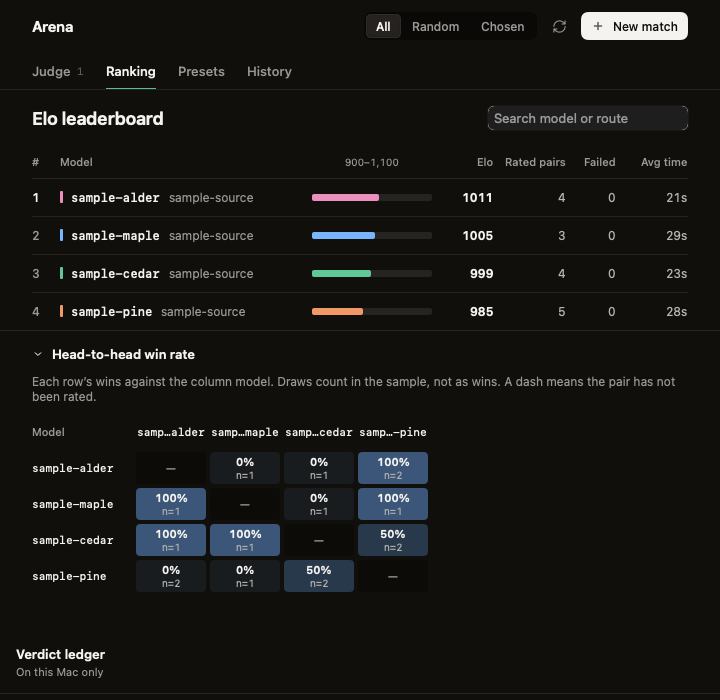
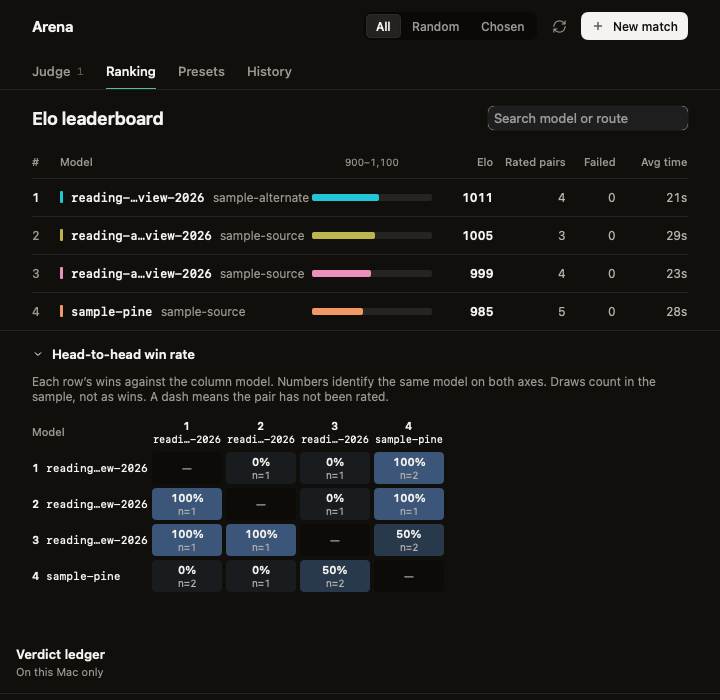
Give long Arena model labels distinct comparison keys

diff --git a/native/swift/Sources/UniApi/NativeArenaHeadToHead.swift b/native/swift/Sources/UniApi/NativeArenaHeadToHead.swift
@@ -28,7 +28,7 @@ struct NativeArenaHeadToHead: View {
                 }.contentShape(Rectangle())
             }.buttonStyle(.plain).pointingHand().accessibilityValue(expanded ? "Expanded" : "Collapsed")
             if expanded {
-                Text("Each row’s wins against the column model. Draws count in the sample, not as wins. A dash means the pair has not been rated.")
+                Text("Each row’s wins against the column model. Numbers identify the same model on both axes. Draws count in the sample, not as wins. A dash means the pair has not been rated.")
                     .font(Theme.ui(Theme.textXs)).foregroundStyle(Theme.muted).fixedSize(horizontal: false, vertical: true)
                 if pages > 1 {
                     HStack {
@@ -52,18 +52,32 @@ struct NativeArenaHeadToHead: View {
     }
 
     private var grid: some View {
-        let matrix = ArenaPairMatrix(comparisons), columns = page(columnPage)
+        let matrix = ArenaPairMatrix(comparisons), rowModels = page(rowPage), columns = page(columnPage)
         return HStack(alignment: .top, spacing: 4) {
             VStack(alignment: .leading, spacing: 4) {
                 Text("Model").font(Theme.ui(11, weight: .medium)).foregroundStyle(Theme.muted).frame(height: 32)
-                ForEach(page(rowPage), id: \.self["key"]) { row in axis(row, width: 100, alignment: .leading) }
+                ForEach(rowModels.indices, id: \.self) { index in
+                    let row = rows[index]
+                    HStack(spacing: 6) {
+                        axisNumber(index)
+                        Text(row["model"].string).font(Theme.mono(11)).lineLimit(1).truncationMode(.middle)
+                    }.frame(width: 116, height: 32, alignment: .leading)
+                        .help(label(row)).accessibilityElement(children: .ignore).accessibilityLabel("\(index + 1). \(label(row))")
+                }
             }
             ScrollView(.horizontal) {
                 VStack(alignment: .leading, spacing: 4) {
                     HStack(spacing: 4) {
-                        ForEach(columns, id: \.self["key"]) { column in axis(column, width: 70, alignment: .center) }
+                        ForEach(columns.indices, id: \.self) { index in
+                            let column = rows[index]
+                            VStack(spacing: 0) {
+                                axisNumber(index)
+                                Text(column["model"].string).font(Theme.mono(10)).lineLimit(1).truncationMode(.middle)
+                            }.frame(width: 70, height: 32)
+                                .help(label(column)).accessibilityElement(children: .ignore).accessibilityLabel("\(index + 1). \(label(column))")
+                        }
                     }
-                    ForEach(page(rowPage), id: \.self["key"]) { row in
+                    ForEach(rowModels, id: \.self["key"]) { row in
                         HStack(spacing: 4) {
                             ForEach(columns, id: \.self["key"]) { column in
                                 cell(matrix[row["key"].string, column["key"].string], row: row, column: column)
@@ -77,9 +91,9 @@ struct NativeArenaHeadToHead: View {
 
     private func label(_ row: JSONValue) -> String { row["model"].string + " · " + row["route"].string }
 
-    private func axis(_ row: JSONValue, width: CGFloat, alignment: Alignment) -> some View {
-        Text(row["model"].string).font(Theme.mono(11)).lineLimit(1).truncationMode(.middle)
-            .frame(width: width, height: 32, alignment: alignment).help(label(row)).accessibilityLabel(label(row))
+    private func axisNumber(_ index: Int) -> some View {
+        Text("\(index + 1)").font(Theme.num(11, weight: .semibold)).foregroundStyle(Theme.ink)
+            .fixedSize(horizontal: true, vertical: false)
     }
 
     private func cell(_ result: ArenaPairResult?, row: JSONValue, column: JSONValue) -> some View {

diff --git a/tools/PublicScreenshotHarness.swift b/tools/PublicScreenshotHarness.swift
@@ -35,7 +35,9 @@ private enum PublicArenaCapture {
         try await NativeArenaService.shared(runtime: runtime).start()
         guard page != "arena-empty" else { return }
         let now = Date().timeIntervalSince1970 * 1000
-        let models = ["sample-cedar", "sample-maple", "sample-alder", "sample-pine"]
+        let cedar = "reading-assistant-enterprise-cedar-regional-preview-2026"
+        let models = [(cedar, "sample-source"), ("reading-assistant-enterprise-maple-regional-preview-2026", "sample-source"),
+                      (cedar, "sample-alternate"), ("sample-pine", "sample-source")]
         let answers = [
             "Make Add a book the first focused action. It opens a search field and a short list of matches. Enter adds the highlighted book; Escape returns to the library without losing the query.\n\nWhen a book is in progress, put Resume reading first. Show a short excerpt and the last saved page beside it.",
             "Use one command palette for Add, Find, and Resume. A keyboard shortcut opens it from anywhere, and the default action changes when the library is empty.\n\nKeep a recent books section and show the last completed chapter inline.",
@@ -59,16 +61,16 @@ private enum PublicArenaCapture {
             ])
             var contestants: [JSONValue] = []
             for slot in 0..<count {
-                let name = models[(slot + (count == 4 ? 0 : index)) % models.count]
+                let (name, route) = models[(slot + (count == 4 ? 0 : index)) % models.count]
                 let duration = Double([18_500, 29_000, 24_000, 38_000][slot])
                 let workdir = runtime.paths.data.appendingPathComponent("arena/matches/\(id)/slot-\(slot)").path
                 try runtime.db.execute("INSERT INTO arena_slots(id,match_id,idx,route,model,status,workdir,final_text,duration_ms,turns,output_tokens,cost_usd,started_at) VALUES(?,?,?,?,?,?,?,?,?,?,?,?,?)", [
-                    .string("\(id)-slot-\(slot)"), .string(id), .number(Double(slot)), "sample-source", .string(name), status,
+                    .string("\(id)-slot-\(slot)"), .string(id), .number(Double(slot)), .string(route), .string(name), status,
                     .string(workdir), status == "done" ? .string(answers[slot]) : "",
                     status == "done" ? .number(duration) : .null, .number(Double(slot + 3)),
                     .number(Double(640 + slot * 146)), slot == 1 ? 0 : .number(0.014 + Double(slot) * 0.009), .number(created + 1000)
                 ])
-                contestants.append(["route": "sample-source", "model": .string(name), "status": "done",
+                contestants.append(["route": .string(route), "model": .string(name), "status": "done",
                                      "rank": .number(Double((order.firstIndex(of: slot) ?? 0) + 1)), "duration_ms": .number(duration), "turns": .number(Double(slot + 3))])
             }
             if ranked {

diff --git a/native/swift/Sources/UniApi/NativeArenaMatch.swift b/native/swift/Sources/UniApi/NativeArenaMatch.swift
@@ -108,15 +108,21 @@ struct NativeArenaMatch: View {
                 }
             }
         } label: {
+            let slot = slots[pair[side]]
             HStack(spacing: 8) {
-                Text(name(slots[pair[side]])).lineLimit(1).truncationMode(.middle)
+                if slot["revealed"].bool {
+                    Text(slot["label"].string).fixedSize()
+                    Text("\(slot["model"].string) · \(slot["route"].string)").lineLimit(1).truncationMode(.middle)
+                } else {
+                    Text(slot["label"].string).lineLimit(1)
+                }
                 Spacer(minLength: 0)
                 NativeIcon("chevrons-up-down", size: 12).foregroundStyle(Theme.faint)
             }
         }.menuIndicator(.hidden).accessibilityLabel(title).accessibilityValue(name(slots[pair[side]]))
     }
     private func name(_ slot: JSONValue) -> String {
-        slot["revealed"].bool ? "\(slot["model"].string) · \(slot["route"].string)" : slot["label"].string
+        slot["revealed"].bool ? "\(slot["label"].string) · \(slot["model"].string) · \(slot["route"].string)" : slot["label"].string
     }
     @ViewBuilder private func columns(_ slots: [JSONValue]) -> some View {
         ForEach(Array(slots.enumerated()), id: \.element["id"]) { index, slot in
@@ -163,10 +169,11 @@ private struct NativeArenaPerformance: View {
                 let value = metric(slot, key: key)
                 HStack(spacing: 12) {
                     VStack(alignment: .leading, spacing: 2) {
+                        Text(slot["label"].string).font(Theme.ui(Theme.textXs, weight: .semibold))
                         Text(slot["model"].string).font(Theme.mono(Theme.textXs))
                         Text(slot["route"].string).font(Theme.ui(Theme.textXs)).foregroundStyle(Theme.muted)
                     }.lineLimit(1).truncationMode(.middle).frame(width: 135, alignment: .leading)
-                        .help("\(slot["model"].string) · \(slot["route"].string)")
+                        .help("\(slot["label"].string) · \(slot["model"].string) · \(slot["route"].string)")
                     if let value { NativeGrowBar(fraction: value / maximum, color: Theme.pairColor(ArenaContestantPolicy.key(slot))) }
                     else { Theme.rule.frame(height: 1).frame(maxWidth: .infinity).accessibilityHidden(true) }
                     NativeNumberText(text: value.map(format) ?? "Not recorded", font: Theme.num(Theme.textXs, weight: .medium))
